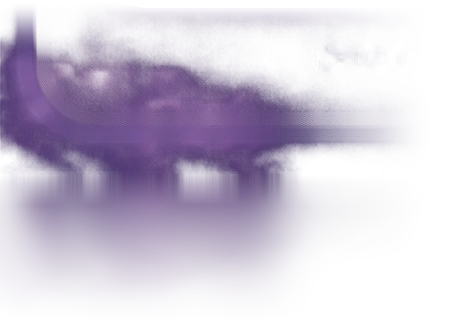
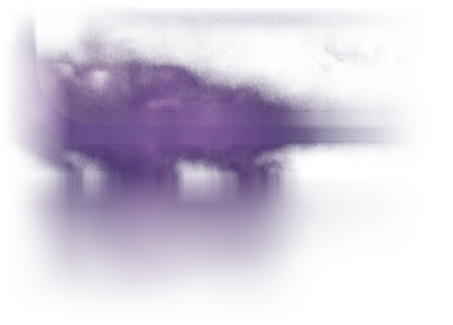
A06: fondo del kit de paralaje (sin cortes detrás de las hebras), nubes largas, vista de cerca de la estrella 3D, versión KURA_001 MVP
- Placa única con cielo y nubes reconstruidos detrás de Alaira (kit de paralaje): ya no aparece un relleno liso ni mechones despegados al mover el teléfono
- Bancos del título y bruma del pie como una sola nube larga con margen; velo y brumas del panel con margen reflejado o desvanecido: ni el paralaje ni la deriva dejan ver su orilla
- estrella.html + botón en el visor: la estrella 3D de cerca, con el mismo render de la app
- «KURA_001 · Versión MVP» hasta abajo en todas las pantallas (ES/EN)

Claude-Session: https://claude.ai/code/session_01CL7wg269cKFeX8NUniz13e

Changed region(s): [[0.0, 0.0308, 0.1545, 0.8]]

diff --git a/kura/a01/js/a06.js b/kura/a01/js/a06.js
@@ -11,7 +11,7 @@ const rnd = () => ((seed = (seed * 9301 + 49297) % 233280) / 233280);
 // El escenario es UNA placa (cielo, arcos, ciudad y puentes juntos, sin Alaira): así al moverse nada se duplica.
 const DEPTH = { cielo: .9, planetas: .45, alaira: 1.6, bancos: 2.1, piso: 1.4 };
 const EXT = 150; // las nubes del pie se prolongan 150 px hacia abajo (teléfonos altos: nunca se ve su orilla)
-const PLANETS = ['planeta-grande', 'planeta-pequeno'].map((id) => A06[id].box);
+const PLANETS = ['planeta-grande', 'planeta-pequeno'].map((id) => A06[id].box); // ya van en la placa
 
 /** Capas del escenario de A06, de atrás hacia adelante. */
 function sceneHTML() {
@@ -22,35 +22,34 @@ function sceneHTML() {
     const tint = rnd() < .22 ? 'rgba(255, 214, 150, .55)' : 'rgba(206, 178, 255, .5)';
     return `<i class="a6-tw${cross ? ' is-cross' : ''}" style="left:calc(${x - s / 2} * var(--v));top:calc(${y - s / 2} * var(--v));width:calc(${s} * var(--v));height:calc(${s} * var(--v));--d:${(3 + rnd() * 4.5).toFixed(2)}s;--w:${(-rnd() * 8).toFixed(2)}s;--c:${tint}"></i>`;
   }).join('');
-  const cloud = (id, depth) => {
-    const c = A06[id], { dx, dy, per } = drift(c);
-    return `<div class="a6-cloud" data-px="${depth}" style="${box(c.box)}"><div class="a6-push"><img src="${c.src}" alt="" decoding="async" style="--tx:${dx};--ty:${dy};--per:${per}s;--w:${(-rnd() * per).toFixed(2)}s"></div></div>`;
-  };
+  // nubes largas: con margen a los lados, así ni el paralaje ni la deriva dejan ver una orilla
+  const cloud = (src, b, depth, { dx, dy, per }) => `<div class="a6-cloud" data-px="${depth}" style="${box(b)}"><div class="a6-push"><img src="${src}" alt="" decoding="async" style="--tx:${dx};--ty:${dy};--per:${per}s;--w:${(-rnd() * per).toFixed(2)}s"></div></div>`;
   return `
     <div class="a6-group" data-px="${DEPTH.cielo}">
-      <img class="a6-l a6-fondo" src="assets/a06/escena/placa.webp" alt="" decoding="async" style="${box([0, 0, 911, 1128])}">
+      <img class="a6-l a6-fondo" src="assets/a06/escena/placa.webp" alt="" decoding="async" style="${box([-24, -24, 959, 1176])}">
       ${L('nebulosa', 'a6-nebula')}
       ${twinkles}
       ${L('luz_sol', 'a6-glow a6-sun')}${L('luz_palacio', 'a6-glow a6-palace')}${L('reflejo_piso_der', 'a6-glow a6-floor')}
       ${L('bruma-media-izq', 'a6-haze')}${L('bruma-media-der', 'a6-haze a6-haze-r')}
     </div>
-    <div class="a6-group" data-px="${DEPTH.planetas}">${L('planeta-grande', 'a6-planet')}${L('planeta-pequeno', 'a6-planet a6-planet-s')}</div>
     <div class="a6-deck" data-px="${DEPTH.piso}" style="top:calc(${A06['00_fondo_violeta_limpio'].box[1]} * var(--v))"></div>
     <div class="a6-group a6-alaira" data-px="${DEPTH.alaira}">
       <canvas class="a6-canvas" id="alaira-canvas" style="${box([0, 0, 911, 1128])}"></canvas>
       <div class="a6-fallback" hidden></div>
     </div>
-    ${cloud('01_velo_costura_escena', 1.9)}
+    ${cloud('assets/a06/nubes/01-velo-ext.webp', [-64, 1060, 1039, 174], 1.9, { dx: 14, dy: 3, per: 22 })}
     <div class="a6-pie" data-px="${DEPTH.bancos + .4}"><i class="a6-pie-a"></i><i class="a6-pie-b"></i></div>
-    ${cloud('02_banco_titulo_izq', DEPTH.bancos)}${cloud('04_banco_titulo_der', DEPTH.bancos + .15)}${cloud('03_banco_titulo_centro', DEPTH.bancos + .3)}`;
+    ${cloud('assets/a06/nubes/bancos-largo.webp', [-48, 1078, 1007, 189], DEPTH.bancos, { dx: 12, dy: 3, per: 19 })}`;
 }
 
 /** Nubes del HUD: 05–06 detrás del vidrio; 07–09 delante del vidrio y debajo de los textos. */
 function panelMist(ids) {
   const PB = 1687, PL = 23; // borde inferior e izquierdo del panel en el lienzo
   return ids.map((id) => {
-    const c = A06[id], [x, y, w, h] = c.box, low = y + h >= 1726; // las que tocaban el borde del lienzo vienen prolongadas
+    const c = A06[id], [x0, y, w0, h] = c.box, low = y + h >= 1726; // las que tocaban el borde del lienzo vienen prolongadas
     const H = low ? h + EXT : h, src = low ? c.src.replace('.webp', '-ext.webp') : c.src;
+    // 07 y 08 traen 64 px reflejados del lado de la orilla de la pantalla (05 y 06 se desvanecen hacia ella)
+    const side = SIDE[id] || 0, x = side < 0 ? x0 - 64 : x0, w = side ? w0 + 64 : w0;
     const { dx, dy, per } = drift(c);
     return `<div class="a6-cloud a6-cloud-hud" style="left:calc(${x - PL} * var(--v));bottom:calc(${PB - (y + h) - (H - h)} * var(--v));width:calc(${w} * var(--v));height:calc(${H} * var(--v));--o:${(14 + rnd() * 10).toFixed(1)}s;--ow:${(-rnd() * 20).toFixed(1)}s"><div class="a6-push"><img src="${src}" alt="" decoding="async" style="--tx:${dx};--ty:${dy};--per:${per}s;--w:${(-rnd() * per).toFixed(2)}s"></div></div>`;
   }).join('');
@@ -58,8 +57,9 @@ function panelMist(ids) {
 
 /** Deriva de cada nube: el kit trae valores muy pequeños; aquí se nota (sutil, pero visible en un teléfono). */
 function drift(c) {
-  return { dx: Math.round((c.travelX ?? 10) * 2.2), dy: Math.round((c.travelY ?? 2) * 2), per: Math.round((c.periodSeconds ?? 20) * .6) };
+  return { dx: Math.min(30, Math.round((c.travelX ?? 10) * 1.6)), dy: Math.round((c.travelY ?? 2) * 1.6), per: Math.round((c.periodSeconds ?? 20) * .6) };
 }
+const SIDE = { '07_bruma_frontal_izq': -1, '08_bruma_frontal_der': 1 };
 
 export function mountA06({ stage, motion, onLayers = () => {} }) {
   const gsap = window.gsap;

diff --git a/kura/a01/styles.css b/kura/a01/styles.css
@@ -187,7 +187,10 @@ button, input { font: inherit; color: inherit; }
 .legal-continue:disabled { opacity: .45; cursor: not-allowed; box-shadow: none; }
 
 /* ---------- 9–11 · Contenido ---------- */
-.content { position: relative; z-index: 2; padding-top: calc(948 * var(--u)); padding-bottom: calc(18 * var(--u)); }
+.content { position: relative; z-index: 2; padding-top: calc(948 * var(--u)); padding-bottom: calc(8 * var(--u)); }
+/* versión de la app, hasta abajo en todas las pantallas */
+.build { margin: calc(6 * var(--u)) 0 0; text-align: center; font-size: max(9px, calc(15 * var(--u))); line-height: 1.4; letter-spacing: .14em; color: rgba(226, 212, 250, .5); text-shadow: 0 0 6px rgba(30, 16, 70, .9); user-select: none; }
+.stage.in-a06 .build { margin-top: calc(14 * var(--v) + var(--g6) * .1); }
 
 .view[hidden] { display: none; }
 .heading { position: relative; text-align: center; height: calc(214 * var(--u)); }
@@ -500,7 +503,7 @@ button, input { font: inherit; color: inherit; }
 }
 .a6-tw.is-cross { background: radial-gradient(circle, #fff 0 5%, rgba(255, 248, 255, .7) 10%, var(--c) 22%, transparent 46%); }
 .a6-tw.is-cross::after { content: ''; position: absolute; inset: 0; background: url(assets/a06/fx/destello-marfil.webp) center / contain no-repeat; }
-.a6-deck { position: absolute; left: calc(-20 * var(--v)); right: calc(-20 * var(--v)); bottom: calc(-40 * var(--v)); background: url(assets/a06/escena/violeta.webp) top / 100% max(100%, calc(666 * var(--v))) no-repeat, #2e264b; }
+.a6-deck { position: absolute; left: calc(-48 * var(--v)); right: calc(-48 * var(--v)); bottom: calc(-40 * var(--v)); background: url(assets/a06/escena/violeta.webp) top / 100% max(100%, calc(666 * var(--v))) no-repeat, #2e264b; }
 /* niebla del pie: pegada al borde inferior, nunca deja ver una orilla en teléfonos altos */
 .a6-pie { position: absolute; left: calc(-70 * var(--v)); right: calc(-70 * var(--v)); bottom: calc(-60 * var(--v)); height: calc(330 * var(--v) + var(--g6)); pointer-events: none; }
 .a6-pie i { position: absolute; inset: 0; }
@@ -512,7 +515,7 @@ button, input { font: inherit; color: inherit; }
   animation: a6-pie-a 17s ease-in-out infinite alternate;
 }
 .a6-pie-b {
-  background: url(assets/a06/nubes/07-frente-izq-ext.webp) left bottom / 64% auto no-repeat, url(assets/a06/nubes/08-frente-der-ext.webp) right bottom / 60% auto no-repeat, url(assets/a06/nubes/09-pie-ext.webp) center bottom / 86% auto no-repeat;
+  background: url(assets/a06/nubes/pie-largo.webp) center bottom / 100% auto no-repeat;
   animation: a6-pie-b 21s ease-in-out -6s infinite alternate;
 }
 @keyframes a6-pie-a { from { translate: calc(-16 * var(--v)) 0; opacity: .8; } to { translate: calc(16 * var(--v)) calc(-8 * var(--v)); opacity: 1; } }

diff --git a/kura/a01/estrella.html b/kura/a01/estrella.html
@@ -1,0 +1,45 @@
+<!DOCTYPE html>
+<html lang="es">
+<head>
+  <meta charset="utf-8" />
+  <meta name="viewport" content="width=device-width, initial-scale=1, viewport-fit=cover" />
+  <title>KURA · Estrella 3D de cerca</title>
+  <!-- Vista de revisión: la estrella de la mano de Alaira (A06) ampliada, con el mismo render de la app. -->
+  <script type="importmap">{ "imports": { "three": "./vendor/three.module.js", "three/addons/": "./vendor/jsm/" } }</script>
+  <style>
+    html, body { margin: 0; height: 100%; background: #1d1636; color: #efe4ff; font-family: Georgia, 'Times New Roman', serif; overflow: hidden; }
+    .wrap { position: fixed; inset: 0; display: grid; place-items: center; }
+    .view { --s: calc(min(100vw, 100svh - 120px) / 220); position: relative; width: calc(220 * var(--s)); height: calc(220 * var(--s)); overflow: hidden; border-radius: 18px; box-shadow: 0 0 40px rgba(150, 110, 220, .35); }
+    .view img { position: absolute; left: calc(-75 * var(--s)); top: calc(-508 * var(--s)); width: calc(959 * var(--s)); max-width: none; }
+    canvas { position: absolute; inset: 0; width: 100%; height: 100%; display: block; }
+    .cap { position: fixed; left: 0; right: 0; text-align: center; font-size: 14px; letter-spacing: .06em; opacity: .85; padding: 0 16px; }
+    .top { top: max(18px, env(safe-area-inset-top)); font-style: italic; font-size: 17px; }
+    .bottom { bottom: max(18px, env(safe-area-inset-bottom)); opacity: .65; }
+  </style>
+</head>
+<body>
+  <p class="cap top">Estrella 3D · gira 0° → 180° → 0° sobre su eje</p>
+  <div class="wrap">
+    <div class="view" id="view">
+      <img src="assets/a06/escena/placa.webp" alt="" />
+      <canvas id="c"></canvas>
+    </div>
+  </div>
+  <p class="cap bottom">Tócala para que brille · inclina o mueve el cursor</p>
+  <script type="module">
+    import { createAlaira } from './js/alaira.js';
+    const motion = { reduced: false, onChange() {} };
+    const a = await createAlaira({ canvas: document.getElementById('c'), motion, view: [51, 484, 220, 220] });
+    if (a) {
+      a.start();
+      const view = document.getElementById('view');
+      view.addEventListener('pointerdown', () => a.shine());
+      addEventListener('pointermove', (e) => a.look([(e.clientX / innerWidth) * 2 - 1, (e.clientY / innerHeight) * 2 - 1]));
+      // el visor manda la inclinación simulada por aquí
+      window.__kura = { tilt: { simulate: (g, b) => a.look([Math.max(-1, Math.min(1, g / 18)), Math.max(-1, Math.min(1, (b - 45) / 18))]) } };
+    } else {
+      document.querySelector('.top').textContent = 'Este navegador no tiene WebGL: no se puede mostrar la estrella 3D.';
+    }
+  </script>
+</body>
+</html>

diff --git a/kura/a01/js/a06-estrellas.js b/kura/a01/js/a06-estrellas.js
@@ -1,2 +1,2 @@
-// Estrellas que titilan en A06: solo donde la placa muestra cielo abierto (generado desde la placa limpia).
-export const TWINKLES = [[907, 149, 6.6, 0], [681, 198, 25.1, 1], [734, 164, 5.9, 0], [410, 64, 29.2, 1], [598, 164, 21.6, 1], [749, 101, 5.5, 0], [819, 70, 6.4, 0], [320, 89, 26.7, 1], [700, 168, 7.0, 0], [742, 33, 8.3, 0], [356, 13, 8.3, 0], [658, 143, 6.8, 0], [688, 54, 9.1, 0], [251, 52, 22.2, 1], [440, 47, 8.0, 0], [321, 26, 9.1, 0], [774, 148, 23.7, 1], [478, 60, 5.1, 0], [281, 35, 8.9, 0], [582, 20, 28.2, 1], [880, 102, 7.1, 0], [108, 50, 27.7, 1], [135, 165, 19.9, 1], [712, 119, 21.1, 1], [254, 106, 22.9, 1], [97, 134, 6.5, 0], [536, 69, 23.7, 1], [611, 58, 5.2, 0], [587, 92, 7.9, 0], [910, 202, 6.8, 0], [893, 20, 7.4, 0], [865, 45, 8.3, 0], [402, 3, 7.0, 0], [136, 77, 6.0, 0], [702, 21, 9.1, 0], [787, 49, 6.4, 0], [780, 12, 17.4, 1], [527, 19, 17.4, 1], [828, 18, 9.1, 0], [666, 106, 7.2, 0], [631, 29, 6.9, 0], [862, 162, 9.8, 0], [582, 195, 16.8, 1], [628, 197, 6.8, 0], [0, 246, 6.6, 0], [233, 143, 22.8, 1], [630, 88, 9.1, 0], [74, 173, 17.9, 1], [810, 153, 5.7, 0], [772, 186, 7.1, 0], [898, 62, 6.2, 0], [133, 116, 22.0, 1], [491, 8, 8.9, 0], [0, 163, 7.8, 0], [728, 69, 25.8, 1], [88, 96, 8.6, 0], [840, 110, 26.0, 1], [558, 114, 7.3, 0], [797, 121, 5.7, 0], [663, 6, 6.9, 0]];
+// Estrellas que titilan en A06: solo donde la placa muestra cielo abierto (generado desde la placa).
+export const TWINKLES = [[788, 34, 6.4, 0], [910, 59, 18.4, 1], [491, 21, 6.6, 0], [889, 132, 8.7, 0], [628, 132, 27.3, 1], [776, 184, 9.3, 0], [590, 203, 26.0, 1], [717, 188, 29.6, 1], [573, 3, 5.3, 0], [752, 9, 8.3, 0], [869, 47, 9.7, 0], [673, 53, 5.9, 0], [399, 72, 27.8, 1], [889, 5, 25.8, 1], [93, 189, 7.4, 0], [253, 70, 6.2, 0], [827, 37, 9.2, 0], [601, 34, 29.0, 1], [337, 43, 21.3, 1], [355, 4, 7.9, 0], [598, 156, 22.0, 1], [259, 8, 7.1, 0], [632, 196, 19.4, 1], [903, 93, 8.4, 0], [681, 13, 8.5, 0], [584, 111, 27.0, 1], [429, 43, 7.9, 0], [152, 149, 9.3, 0], [397, 29, 29.0, 1], [654, 167, 8.5, 0], [526, 22, 27.3, 1], [869, 83, 7.3, 0], [1, 178, 6.1, 0], [502, 83, 18.4, 1], [672, 107, 8.7, 0], [126, 124, 5.4, 0], [297, 36, 26.1, 1], [93, 43, 7.9, 0], [548, 55, 5.0, 0], [469, 66, 8.9, 0], [105, 157, 6.5, 0], [71, 131, 23.2, 1], [636, 98, 5.7, 0], [319, 79, 5.7, 0], [668, 202, 16.7, 1], [244, 122, 5.4, 0], [107, 80, 7.3, 0], [144, 87, 5.5, 0], [727, 34, 7.6, 0], [851, 1, 9.4, 0], [131, 52, 5.2, 0], [607, 70, 30.0, 1], [283, 103, 7.3, 0], [833, 92, 16.5, 1], [136, 183, 27.7, 1], [899, 210, 24.8, 1], [416, 0, 24.9, 1], [635, 32, 23.1, 1], [360, 71, 9.2, 0], [0, 384, 26.4, 1]];

diff --git a/kura/a01/js/alaira.js b/kura/a01/js/alaira.js
@@ -137,7 +137,9 @@ async function loadStar(url) {
 }
 const easeInOut = (t) => t * t * (3 - 2 * t);
 
-export async function createAlaira({ canvas, motion }) {
+export async function createAlaira({ canvas, motion, view = [0, 0, W, H] }) {
+  // view: recorte del lienzo que se dibuja (estrella.html lo usa para ver la estrella de cerca)
+  const [vx, vy, vw, vh] = view;
   let renderer;
   try {
     renderer = new THREE.WebGLRenderer({ canvas, alpha: true, antialias: true, premultipliedAlpha: true, powerPreference: 'high-performance' });
@@ -147,7 +149,7 @@ export async function createAlaira({ canvas, motion }) {
   renderer.outputColorSpace = THREE.SRGBColorSpace;
 
   const scene = new THREE.Scene();
-  const camera = new THREE.OrthographicCamera(0, W, 0, -H, -2000, 2000);
+  const camera = new THREE.OrthographicCamera(vx, vx + vw, -vy, -(vy + vh), -2000, 2000);
   camera.position.z = 1000;
 
   const tl = new THREE.TextureLoader();
@@ -340,9 +342,9 @@ export async function createAlaira({ canvas, motion }) {
   function resize() {
     const w = canvas.clientWidth, h = canvas.clientHeight;
     if (!w || !h) return;
-    renderer.setPixelRatio(Math.min(devicePixelRatio || 1, 2));
+    renderer.setPixelRatio(Math.min(devicePixelRatio || 1, vw < W ? 3 : 2));
     renderer.setSize(w, h, false);
-    dust.material.uniforms.uScale.value = (w * renderer.getPixelRatio()) / W; // tamaño de las motas en px del lienzo
+    dust.material.uniforms.uScale.value = (w * renderer.getPixelRatio()) / vw; // tamaño de las motas en px del lienzo
   }
   const ro = new ResizeObserver(resize); ro.observe(canvas); resize();
 

diff --git a/kura/a01/js/i18n.js b/kura/a01/js/i18n.js
@@ -29,7 +29,7 @@ const STRINGS = {
     loading: 'Iniciando sesión…',
     demoSignIn: 'Demo: acceso concedido. Aquí se abrirá A06 · Bienvenida con Alaira.',
     soonGoogle: 'Continuar con Google: se conectará en la integración real.',
-    a06Title: '¡Hola! Soy Alaira', a06Guide: 'Estoy aquí para guiarte', a06Question: 'Un nuevo tú te espera',
+    build: 'KURA_001 · Versión MVP', a06Title: '¡Hola! Soy Alaira', a06Guide: 'Estoy aquí para guiarte', a06Question: 'Un nuevo tú te espera',
     a06Start: 'Empezar', a06Skip: 'Saltar por ahora', voice: 'Voz de Alaira',
     a06SoonQuiz: 'El cuestionario (A07) llega en la siguiente fase.', a06SoonTour: 'El recorrido llega en la siguiente fase.',
     soon: 'Próximamente',
@@ -63,7 +63,7 @@ const STRINGS = {
     loading: 'Signing in…',
     demoSignIn: 'Demo: access granted. A06 · Welcome with Alaira will open here.',
     soonGoogle: 'Continue with Google will be connected in the real integration.',
-    a06Title: 'Hi! I’m Alaira', a06Guide: 'I’m here to guide you', a06Question: 'A new you awaits',
+    build: 'KURA_001 · MVP version', a06Title: 'Hi! I’m Alaira', a06Guide: 'I’m here to guide you', a06Question: 'A new you awaits',
     a06Start: 'Start', a06Skip: 'Skip for now', voice: 'Alaira’s voice',
     a06SoonQuiz: 'The questionnaire (A07) comes in the next phase.', a06SoonTour: 'The tour comes in the next phase.',
     soon: 'Coming soon',

diff --git a/kura/a01/visor.html b/kura/a01/visor.html
@@ -115,6 +115,7 @@
       <button type="button" data-screen="a04" title="Enlace enviado">A04</button>
       <button type="button" data-screen="a06" title="Bienvenida con Alaira">A06</button>
     </div>
+    <div class="row"><button type="button" id="star3d" title="La estrella de la mano de Alaira, de cerca">★ Estrella 3D de cerca</button></div>
     <div class="row"><button type="button" id="reload">↻ Ver la entrada de nuevo</button></div>
 
     <h2>Giroscopio</h2>
@@ -169,9 +170,11 @@
     document.querySelectorAll('[data-screen]').forEach((b) => b.addEventListener('click', () => {
       const s = b.dataset.screen;
       if (s === 'a05') { app.src = 'index.html#a05'; app.contentWindow.location.reload(); return; }
+      if ((app.getAttribute('src') || '').includes('estrella')) { app.src = 'index.html#' + s; return; } // venía de la vista de la estrella
       app.contentWindow.location.hash = s;
     }));
     $('reload').addEventListener('click', () => { app.src = 'index.html#a01'; app.contentWindow.location.reload(); });
+    $('star3d').addEventListener('click', () => { app.src = 'estrella.html'; });
 
     /* ---------- Audios desde el dispositivo ---------- */
     // Nombres que usa la app y nombres originales que también se reconocen.

diff --git a/kura/a01/index.html b/kura/a01/index.html
@@ -227,6 +227,7 @@
         <span aria-hidden="true">·</span>
         <a href="#privacidad" class="pref" data-legal="privacy" data-i18n="privacy">Privacidad</a>
       </nav>
+      <p class="build" data-i18n="build">KURA_001 · Versión MVP</p>
     </div>
 
     <!-- A05 · Restaurando sesión -->

diff --git a/kura/a01/README.md b/kura/a01/README.md
@@ -38,8 +38,11 @@ Se entra al iniciar sesión o crear cuenta (suena «acceso concedido»); tambié
 
 - **Alaira viva** (`js/alaira.js`, Three.js): el cuerpo es una malla fina que se deforma con mapas de peso (`assets/a06/alaira/pesos-*.png`, 15 canales): mechones y melena se mecen desde la raíz con una onda, telas y aretes con resortes, el pecho respira y la cabeza sigue al dedo, cursor o giroscopio. Mechones, telas y aretes vienen borrados en el cuerpo y se dibujan encima, así nunca dejan copia. Ojos con el atlas de parpadeo 5 × 5 (82 ms cerrar, 19 ms sostener, 125 ms abrir; a veces doble). Fleco y hebras encima de los ojos.
 - **Estrella** de la mano: modelo GLB que reposa de frente, gira 180° y regresa en 5.2 s, con núcleo, halo dorado, rayos largos, órbita, chispas que pasan por delante y por detrás y polvo de oro que sube en espiral y titila. Tocarla la hace brillar; tocar a Alaira hace que parpadee y se le mueva el cabello. El glTF (`estrella.json`) se convierte a GLB en memoria: la web app no deja leer data: URIs con fetch.
-- **Escenario** con paralaje: una sola placa limpia (`escena/placa.webp`: cielo, arcos, ciudad y puentes juntos, sin Alaira ni el logo pintado; el hueco de la silueta se rellenó con los colores de su orilla), así al mover el teléfono nada se duplica detrás de Alaira. Planetas, Alaira y nubes van a otras profundidades. Estrellas que titilan solo sobre cielo abierto (`js/a06-estrellas.js`), luces que respiran y nubes que van y vienen; se apartan al paso del dedo o del cursor.
-- **Pie de pantalla**: las nubes que tocaban el borde del lienzo se prolongan 150 px hacia abajo (`nubes/*-ext.webp`) y una niebla (`.a6-pie`) cubre hasta el borde en teléfonos altos.
+- **Escenario** con paralaje: una sola placa (`escena/placa.webp`, con 24 px de margen) armada con el kit de paralaje: cielo y nubes reconstruidos detrás de Alaira, arcos, ciudad, puentes y planetas juntos. Así, al mover el teléfono, detrás de las hebras de Alaira se ven el cielo y las columnas, nunca una copia ni un relleno liso. Estrellas que titilan solo sobre cielo abierto (`js/a06-estrellas.js`), luces que respiran.
+- **Nubes largas**: los bancos del título son una sola nube de 1007 px (`nubes/bancos-largo.webp`, 48 px de margen por lado) y la bruma del pie igual (`nubes/pie-largo.webp`); el velo y las brumas del panel traen margen reflejado o se desvanecen hacia la orilla. Ni el paralaje ni la deriva dejan ver un corte. Se apartan al paso del dedo o del cursor.
+- **Pie de pantalla**: las nubes que tocaban el borde del lienzo se prolongan hacia abajo (`nubes/*-ext.webp`) y una niebla (`.a6-pie`) cubre hasta el borde en teléfonos altos.
+- **Estrella de cerca**: `estrella.html` (botón «★ Estrella 3D de cerca» en el visor) muestra la estrella ampliada con el mismo render de la app.
+- **Versión** hasta abajo en todas las pantallas: «KURA_001 · Versión MVP» / «KURA_001 · MVP version».
 - **HUD** con el mismo cristal, bordes luminosos, destellos y botón que A01–A04. «Empezar» (A07) y «Saltar por ahora» (recorrido) muestran un aviso hasta que existan.
 - **Voz de Alaira**: interruptor en el menú de sonido, solo en la introducción. La preferencia se guarda; aún no hay voz elegida.
 - Sin WebGL se muestra la ilustración fija con la estrella 2D. Con «Reducir efectos» todo queda quieto.
